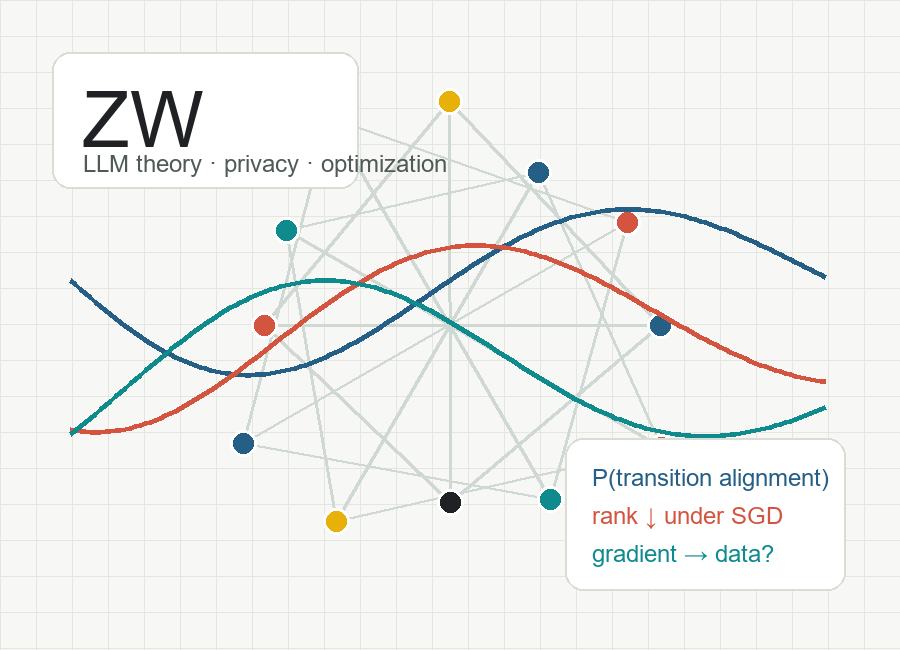
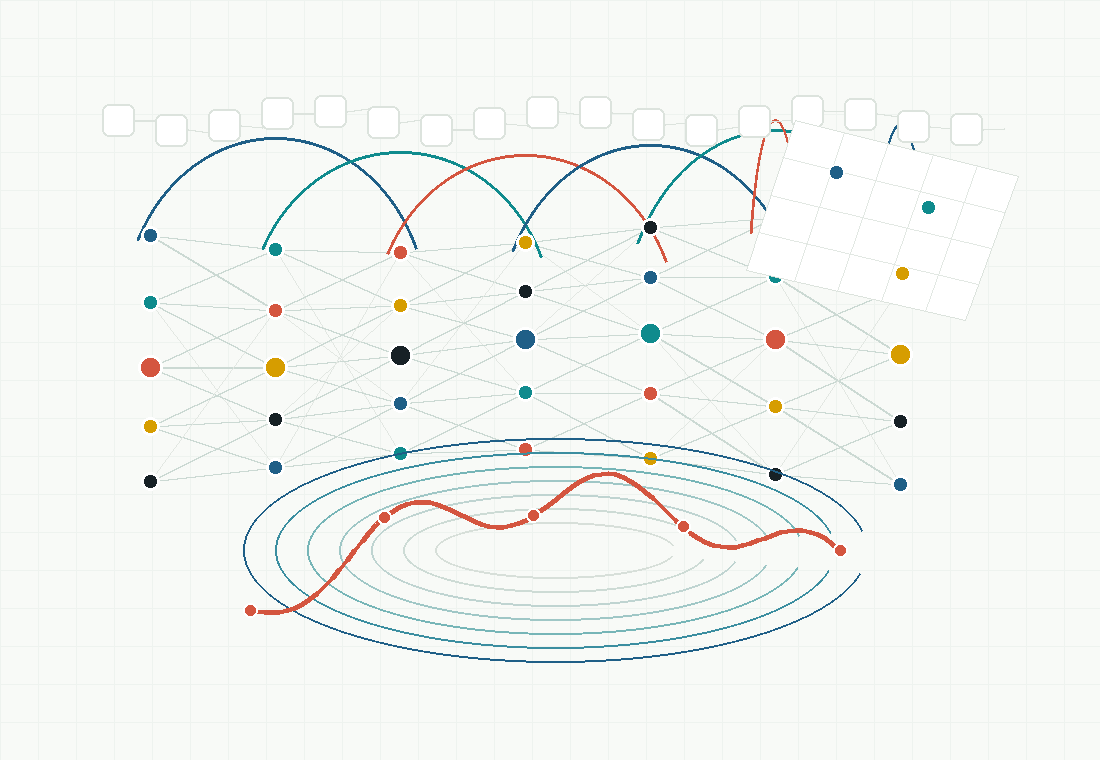
Update homepage content and visuals

diff --git a/stylesheet.css b/stylesheet.css
@@ -52,7 +52,7 @@ a:focus-visible {
 
 .hero {
   display: grid;
-  grid-template-columns: minmax(0, 1fr) 300px;
+  grid-template-columns: minmax(0, 1fr) 360px;
   gap: 44px;
   align-items: center;
   padding: 22px 0 36px;
@@ -60,7 +60,6 @@ a:focus-visible {
 
 .eyebrow {
   margin: 0 0 8px;
-  color: var(--teal);
   font-family: Arial, Helvetica, sans-serif;
   font-size: 0.9rem;
   font-weight: 700;
@@ -131,7 +130,7 @@ h3 {
 .hero-media img {
   display: block;
   width: 100%;
-  aspect-ratio: 9 / 7;
+  aspect-ratio: 55 / 38;
   object-fit: cover;
   border: 1px solid var(--line);
   border-radius: 8px;
@@ -141,11 +140,6 @@ h3 {
 .section {
   padding: 28px 0;
   border-top: 1px solid var(--line);
-}
-
-.section-lead {
-  max-width: 760px;
-  color: var(--muted);
 }
 
 .news-list,
@@ -172,107 +166,23 @@ time,
   font-size: 0.9rem;
 }
 
-.project-list,
 .publication-list {
   display: grid;
   gap: 20px;
 }
 
-.project,
 .publication {
-  display: grid;
-  grid-template-columns: 108px minmax(0, 1fr);
-  gap: 22px;
-  align-items: start;
+  display: block;
+  padding: 2px 0 0;
 }
 
-.project {
-  padding: 16px 0;
-}
-
-.project + .project,
 .publication + .publication {
   border-top: 1px solid var(--line);
   padding-top: 22px;
 }
 
-.project-mark {
-  display: grid;
-  width: 90px;
-  height: 90px;
-  place-items: center;
-  border: 1px solid var(--line);
-  border-radius: 8px;
-  background: var(--paper);
-  color: var(--ink);
-  font-family: Arial, Helvetica, sans-serif;
-  font-size: 0.95rem;
-  font-weight: 700;
-  box-shadow: 0 10px 28px rgba(32, 33, 36, 0.06);
-}
-
-.mark-cot {
-  border-top: 5px solid var(--blue);
-}
-
-.mark-loop {
-  border-top: 5px solid var(--coral);
-}
-
-.mark-moe {
-  border-top: 5px solid var(--teal);
-}
-
-.project p,
 .publication p {
   margin-bottom: 7px;
-}
-
-.publication {
-  padding: 2px 0 0;
-}
-
-.pub-thumb {
-  width: 108px;
-  aspect-ratio: 1 / 0.78;
-  border: 1px solid var(--line);
-  border-radius: 8px;
-  background-color: var(--paper);
-  box-shadow: 0 10px 28px rgba(32, 33, 36, 0.06);
-}
-
-.thumb-cot {
-  background:
-    radial-gradient(circle at 28% 28%, var(--blue) 0 7px, transparent 8px),
-    radial-gradient(circle at 56% 52%, var(--coral) 0 7px, transparent 8px),
-    radial-gradient(circle at 78% 30%, var(--teal) 0 7px, transparent 8px),
-    linear-gradient(135deg, transparent 48%, rgba(31, 95, 135, 0.23) 49% 52%, transparent 53%),
-    #ffffff;
-}
-
-.thumb-privacy {
-  background:
-    linear-gradient(90deg, rgba(15, 139, 141, 0.18) 1px, transparent 1px),
-    linear-gradient(0deg, rgba(15, 139, 141, 0.18) 1px, transparent 1px),
-    radial-gradient(circle at 50% 50%, rgba(212, 85, 63, 0.95) 0 13px, transparent 14px),
-    #ffffff;
-  background-size: 18px 18px, 18px 18px, auto;
-}
-
-.thumb-rank {
-  background:
-    linear-gradient(160deg, transparent 0 35%, rgba(37, 95, 133, 0.22) 36% 40%, transparent 41%),
-    linear-gradient(120deg, transparent 0 47%, rgba(214, 157, 0, 0.32) 48% 54%, transparent 55%),
-    repeating-linear-gradient(0deg, #ffffff 0 10px, #edf1ec 10px 12px);
-}
-
-.thumb-gradient {
-  background:
-    radial-gradient(circle at 28% 34%, var(--coral) 0 6px, transparent 7px),
-    radial-gradient(circle at 56% 60%, var(--blue) 0 6px, transparent 7px),
-    radial-gradient(circle at 78% 28%, var(--gold) 0 6px, transparent 7px),
-    linear-gradient(20deg, transparent 0 46%, rgba(15, 139, 141, 0.28) 47% 50%, transparent 51%),
-    #ffffff;
 }
 
 .authors,
@@ -348,24 +258,7 @@ time,
 
   .news-list li,
   .compact-list li,
-  .project,
-  .publication,
   .two-column {
     grid-template-columns: 1fr;
-  }
-
-  .project,
-  .publication {
-    gap: 12px;
-  }
-
-  .project-mark {
-    width: 100%;
-    height: 54px;
-  }
-
-  .pub-thumb {
-    width: 100%;
-    max-width: 220px;
   }
 }

diff --git a/index.html b/index.html
@@ -14,11 +14,17 @@
     <main class="page">
       <header class="hero" id="top">
         <div class="intro">
-          <p class="eyebrow">Courant Institute of Mathematical Sciences, NYU</p>
+          <p class="eyebrow">
+            <a href="https://math.nyu.edu/">Department of Mathematics</a>,
+            <a href="https://cims.nyu.edu/">NYU Courant</a>
+          </p>
           <h1>Zihan Wang</h1>
           <p>
-            I am a Ph.D. student in Mathematics at the Courant Institute of
-            Mathematical Sciences, New York University, advised by Qi Lei.
+            I am a <strong>second-year</strong> Ph.D. student in the
+            <a href="https://math.nyu.edu/">Department of Mathematics</a> at
+            the <a href="https://cims.nyu.edu/">Courant Institute of Mathematical Sciences</a>,
+            <a href="https://www.nyu.edu/">New York University</a>, advised by
+            <a href="https://cecilialeiqi.github.io/">Qi Lei</a>.
             My research studies large language models and deep learning from a
             theoretical perspective, with recent focus on chain-of-thought
             reasoning, self-improving generation models, optimization dynamics,
@@ -27,7 +33,6 @@
           </p>
           <nav class="links" aria-label="Primary links">
             <a href="mailto:[email redacted]">Email</a>
-            <a href="assets/CV_2026.pdf">CV</a>
             <a href="https://scholar.google.com/citations?user=ZBF2zKMAAAAJ&hl=en">Google Scholar</a>
           </nav>
         </div>
@@ -70,60 +75,11 @@
         </ul>
       </section>
 
-      <section class="section" aria-labelledby="research-heading">
-        <h2 id="research-heading">Research</h2>
-        <p class="section-lead">
-          I work on theoretical foundations for modern learning systems: when
-          reasoning traces help, how models can improve through closed-loop
-          training, why optimization dynamics favor certain structures, and how
-          gradients can leak private training data.
-        </p>
-        <div class="project-list">
-          <article class="project">
-            <div class="project-mark mark-cot" aria-hidden="true">CoT</div>
-            <div>
-              <h3>Understanding chain-of-thought from a Markovian perspective</h3>
-              <p>
-                Models multi-step reasoning traces as a Markov process and
-                studies transition alignment as a structural condition under
-                which chain-of-thought reduces inference-time sampling cost.
-              </p>
-              <p class="meta">Manuscript under review</p>
-            </div>
-          </article>
-          <article class="project">
-            <div class="project-mark mark-loop" aria-hidden="true">loop</div>
-            <div>
-              <h3>Self-improving generation models via verifier-guided post-training</h3>
-              <p>
-                Develops closed-loop training with model-generated data,
-                verifier-guided selection, and weighting, with experiments
-                comparing off-policy and on-policy self-improvement updates.
-              </p>
-              <p class="meta">In preparation</p>
-            </div>
-          </article>
-          <article class="project">
-            <div class="project-mark mark-moe" aria-hidden="true">MoE</div>
-            <div>
-              <h3>Two-timescale optimization theory for mixture-of-experts</h3>
-              <p>
-                Studies softmax-router mixture-of-experts training via
-                martingale arguments and dynamical-system style analysis of
-                inner-loop and outer-loop convergence.
-              </p>
-              <p class="meta">In preparation</p>
-            </div>
-          </article>
-        </div>
-      </section>
-
       <section class="section" aria-labelledby="publications-heading">
         <h2 id="publications-heading">Selected Publications</h2>
         <p class="note">An asterisk denotes alphabetical author order.</p>
         <div class="publication-list">
           <article class="publication">
-            <div class="pub-thumb thumb-cot" aria-hidden="true"></div>
             <div class="pub-body">
               <h3>
                 <a href="https://arxiv.org/abs/2603.00306">When does Chain-of-Thought Help: A Markovian Perspective</a>
@@ -143,7 +99,6 @@
           </article>
 
           <article class="publication">
-            <div class="pub-thumb thumb-privacy" aria-hidden="true"></div>
             <div class="pub-body">
               <h3>
                 <a href="https://proceedings.mlr.press/v258/liu25b.html">Data Reconstruction Attacks and Defenses: A Systematic Evaluation</a>
@@ -164,7 +119,6 @@
           </article>
 
           <article class="publication">
-            <div class="pub-thumb thumb-rank" aria-hidden="true"></div>
             <div class="pub-body">
               <h3>
                 <a href="https://arxiv.org/abs/2305.16038">Implicit bias of SGD in L2-regularized linear DNNs: One-way jumps from high to low rank</a>
@@ -185,7 +139,6 @@
           </article>
 
           <article class="publication">
-            <div class="pub-thumb thumb-gradient" aria-hidden="true"></div>
             <div class="pub-body">
               <h3>
                 <a href="https://proceedings.mlr.press/v206/wang23g.html">Reconstructing Training Data from Model Gradient, Provably</a>
@@ -240,11 +193,48 @@
         </div>
       </section>
 
-      <section class="section" aria-labelledby="service-heading">
-        <h2 id="service-heading">Service</h2>
-        <p>
-          Reviewer for ICLR, ICML, NeurIPS, and AISTATS.
-        </p>
+      <section class="section" aria-labelledby="experience-heading">
+        <h2 id="experience-heading">Experience</h2>
+        <ul class="compact-list">
+          <li>
+            <span class="meta">Service</span>
+            Reviewer for ICLR, ICML, NeurIPS, and AISTATS.
+          </li>
+          <li>
+            <span class="meta">Spring 2026</span>
+            TA for Honors Analysis I, MATH-UA 328.
+          </li>
+          <li>
+            <span class="meta">Fall 2025</span>
+            Grader for Real Variables I, MATH-GA 2430.
+          </li>
+          <li>
+            <span class="meta">Teaching</span>
+            Grader for Introduction to Partial Differential Equations, MATH-GA 2490.
+          </li>
+        </ul>
+      </section>
+
+      <section class="section" aria-labelledby="misc-heading">
+        <h2 id="misc-heading">Miscellaneous</h2>
+        <ul class="compact-list">
+          <li>
+            <span class="meta">Football</span>
+            I enjoy football and support
+            <a href="https://www.realmadrid.com/en-US">Real Madrid</a>.
+          </li>
+          <li>
+            <span class="meta">Mystery</span>
+            I like Japanese new mystery fiction. Here is my personal
+            <a href="https://tiermaker.com/create/japanese-new-mystery-fictions-continuously-updating-17485995">tier list</a>.
+          </li>
+          <li>
+            <span class="meta">Bridge</span>
+            I play <a href="https://www.acbl.org/">bridge</a>, and represented NYU
+            to place third in the
+            <a href="https://www.acbl.org/portfolio/bridge-bowl/">2025 NABC Collegiate Bridge Bowl</a>.
+          </li>
+        </ul>
       </section>
 
       <footer class="footer">